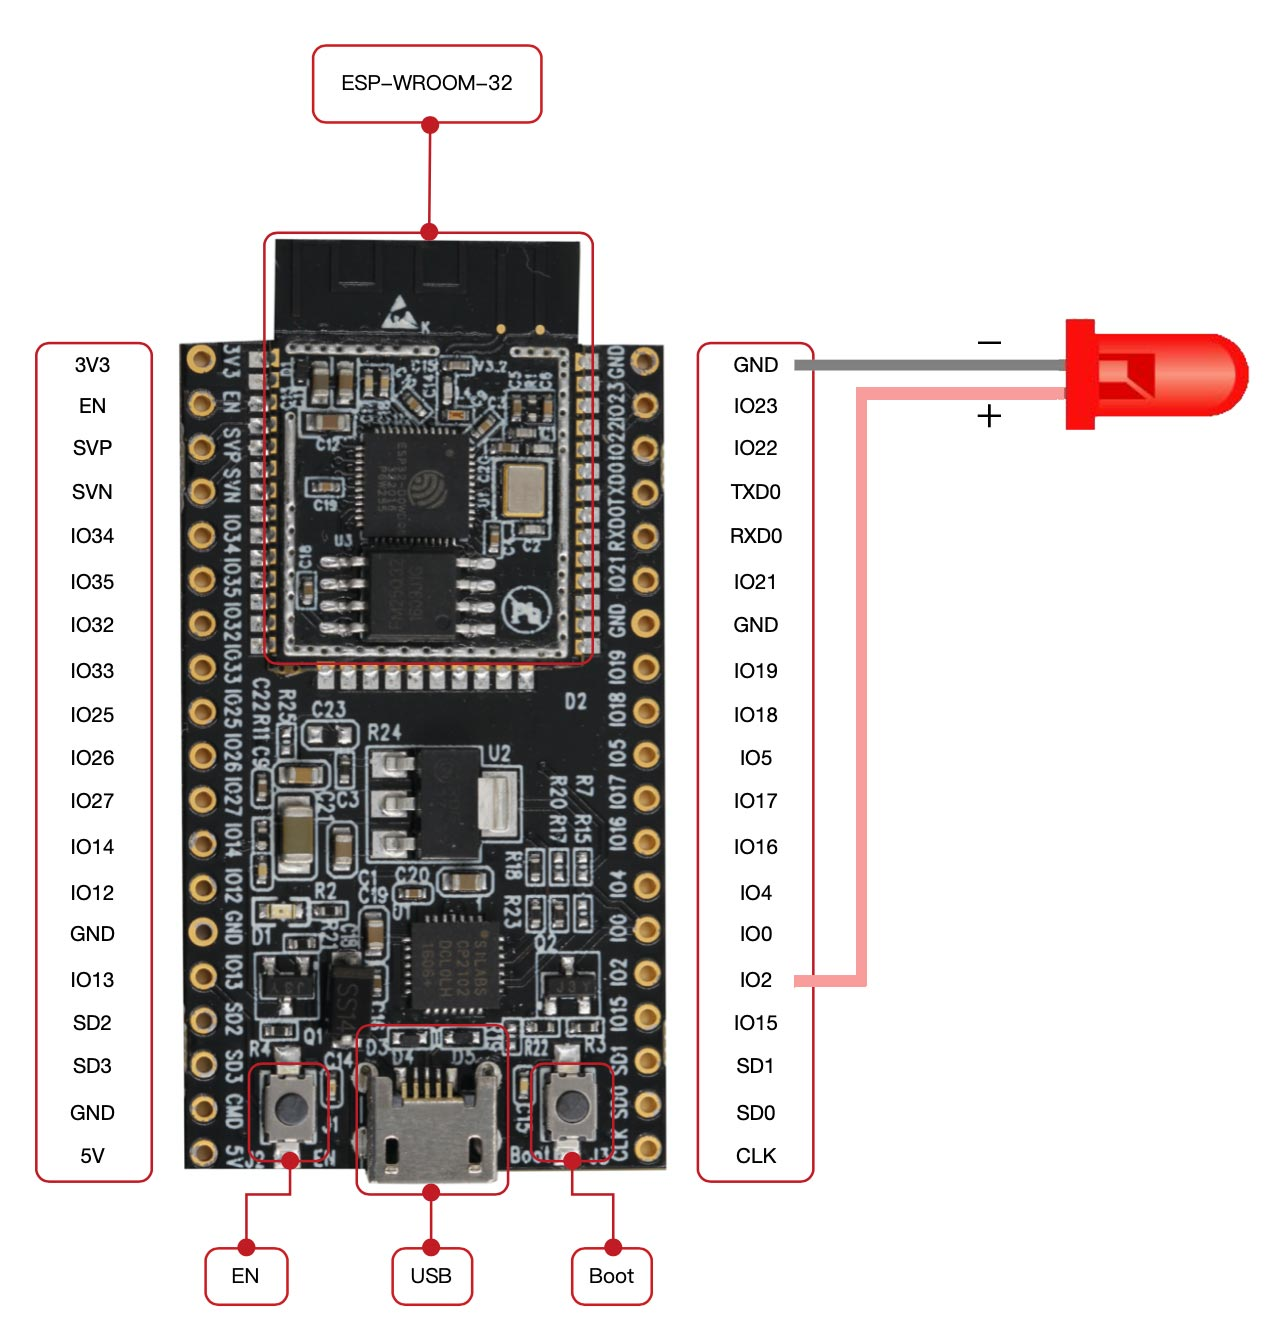
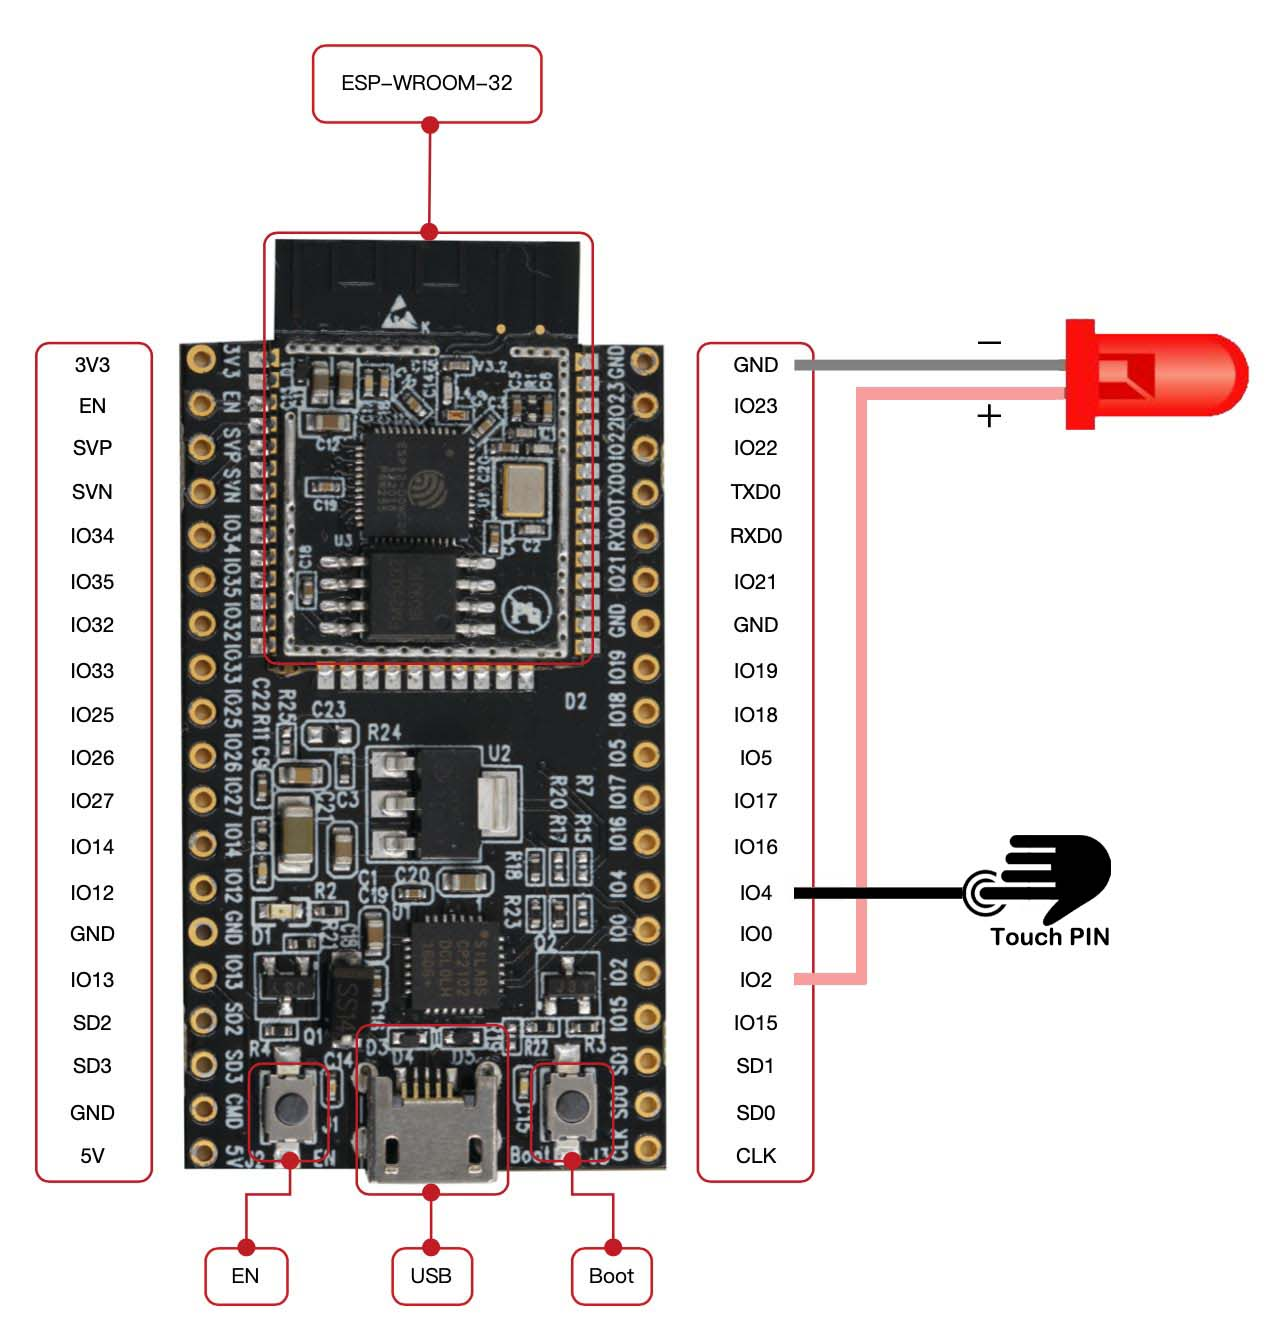
update doc

Changed region(s): [[0.6118, 0.6124, 0.8871, 0.7043]]

diff --git a/src/main.cpp b/src/main.cpp
@@ -18,12 +18,12 @@ void setup() {
 void loop() {
     /*
     Serial.println("turn the LED On");
-    digitalWrite(LED_LAMP, HIGH); // turn the LED On (HIGH is the voltage level)
-    delay(2000);                  // wait for 2 second
+    digitalWrite(LED_LAMP, HIGH);  // turn the LED On (HIGH is the voltage level)
+    delay(2000);                   // wait for 2 second
 
     Serial.println("turn the LED Off");
-    digitalWrite(LED_LAMP, LOW); // turn the LED Off by making the voltage LOW
-    delay(2000);                 // wait for 2 second
+    digitalWrite(LED_LAMP, LOW);  // turn the LED Off by making the voltage LOW
+    delay(2000);                  // wait for 2 second
     */
 
     if (touchRead(TOUTCH_PIN) > 40) {

diff --git a/README.md b/README.md
@@ -1,4 +1,7 @@
 # ESP32 LED Lamp Example by VSCode + PlatformIO
 
 ## WiringDiagrams
+
 ![WiringDiagrams](https://raw.githubusercontent.com/Emck/ESP32_LED_Lamp/main/doc/WiringDiagrams.jpg)
+
+### Touched IO4 Pin, LED Lamp light on
